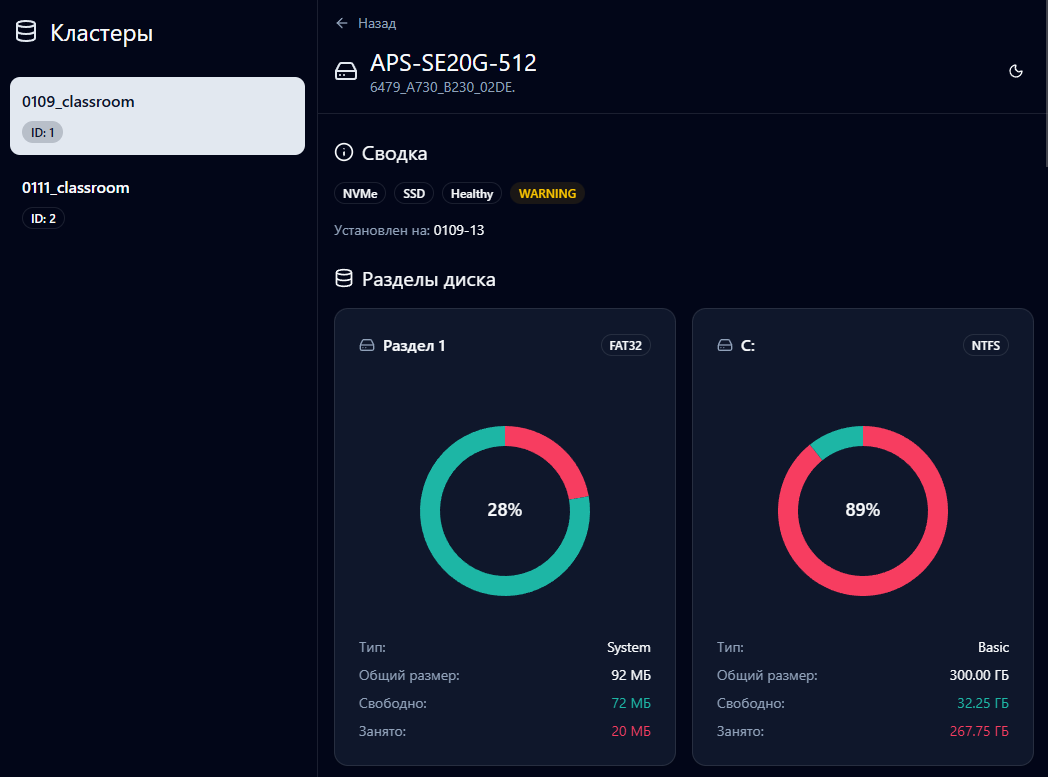
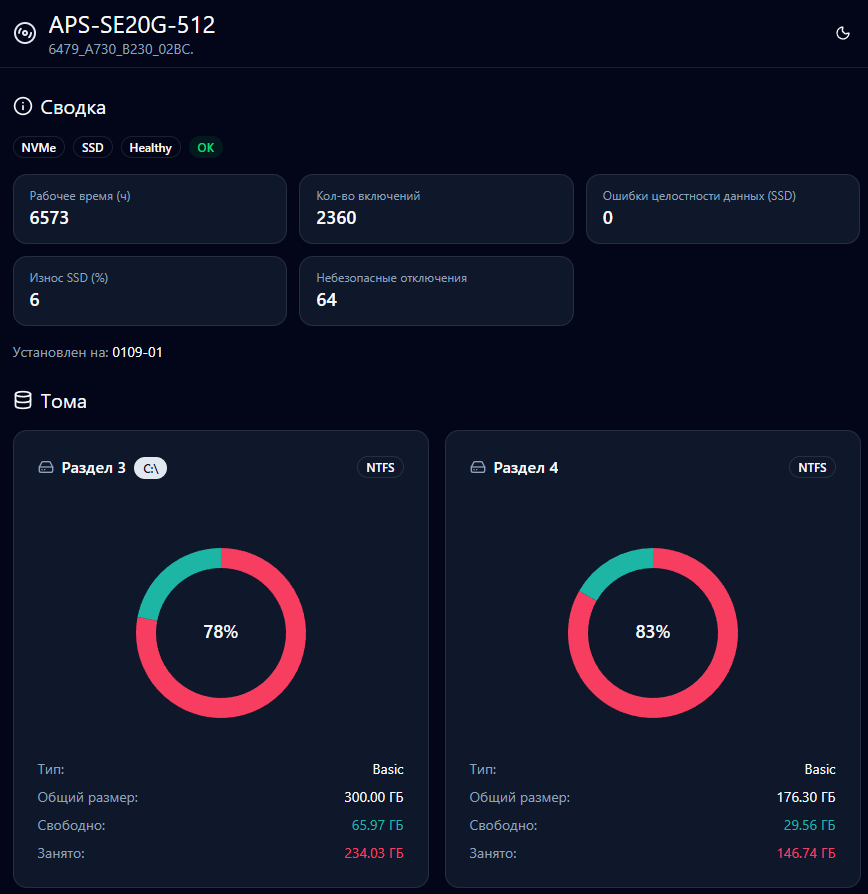
update readme

diff --git a/README.md b/README.md
@@ -8,13 +8,20 @@
     <br />
   </p>
   <a>
-    <img src="./readme/main.PNG" alt=".">
+    <img src="./readme/main.PNG" alt="Cluster page">
   </a>
+  <p align="center"><i>Cluster page</i></p>
+  <br />
+  <a>
+    <img src="./readme/machine.PNG" alt="Machine details page">
+  </a>
+  <p align="center"><i>Machine Details page</i></p>
   <br />
   </p>
     <a>
-    <img src="./readme/volumes.PNG" alt=".">
+    <img src="./readme/volumes.PNG" alt="Disc page">
   </a>
+  <p align="center"><i>Disc page</i></p>
 </div>
 
 ---